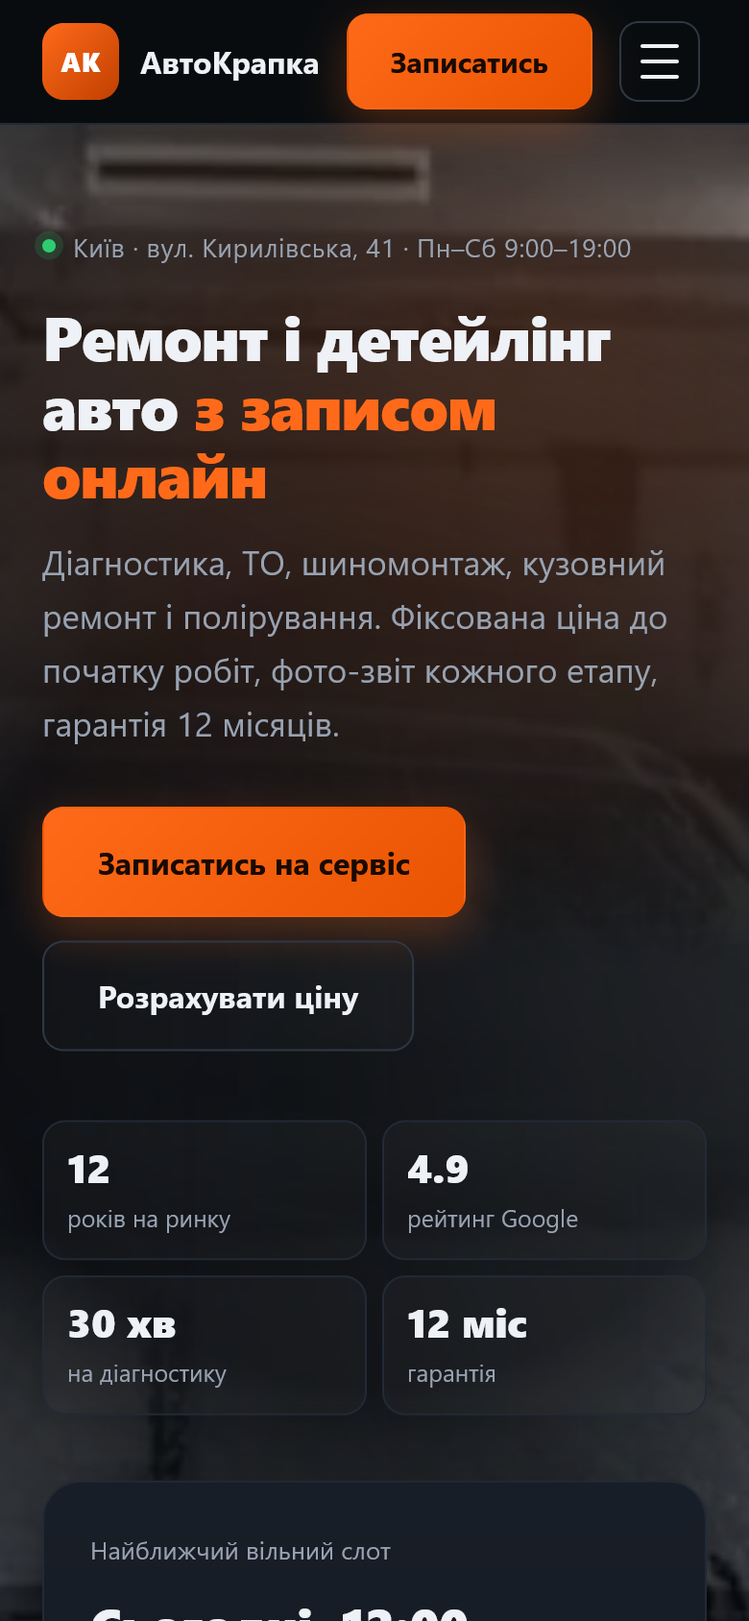
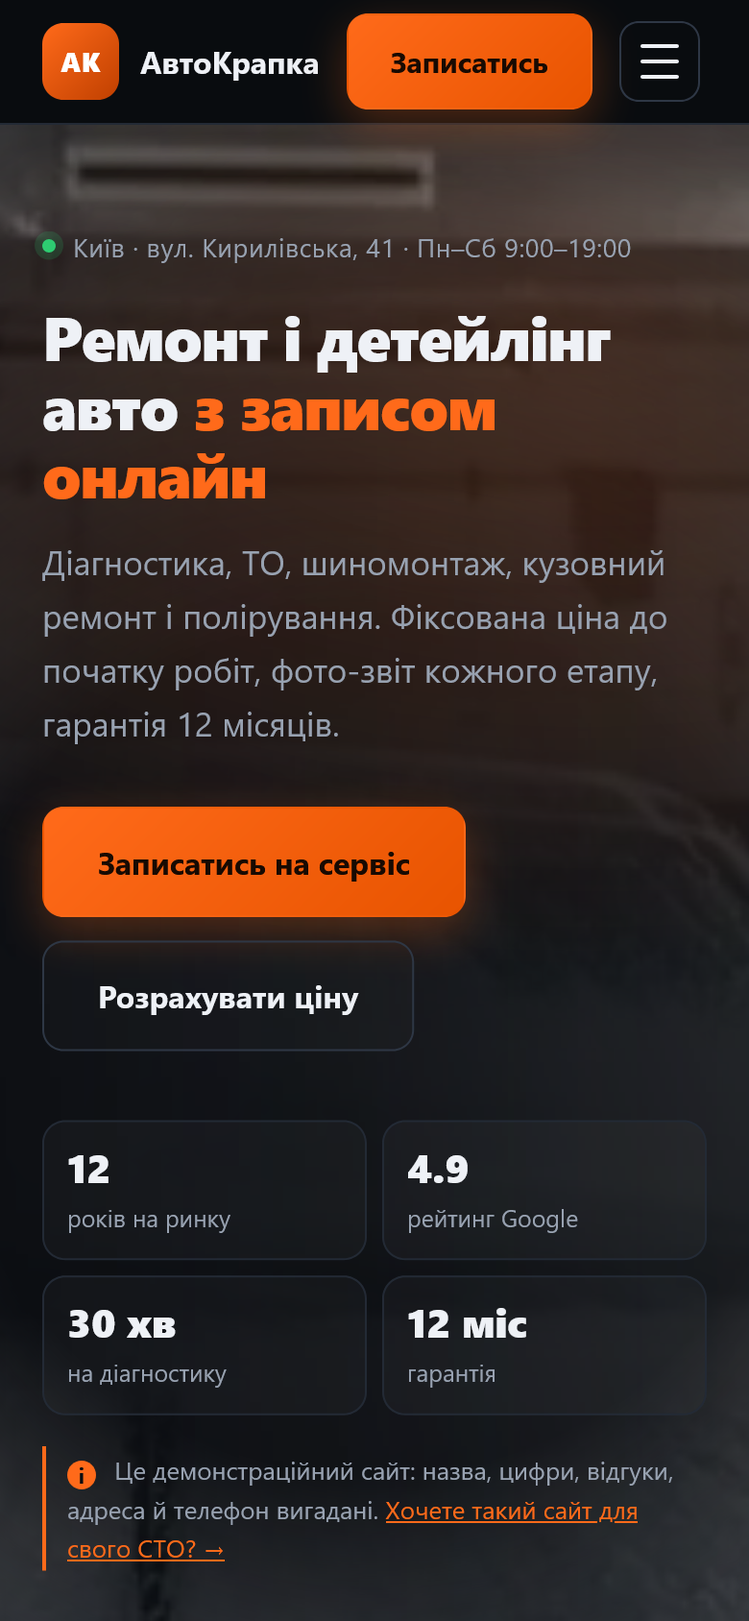
Правки по внешнему аудиту: демо-пометки, оффер с главной, расходы после года, вопрос без записи
Аудит нашёл 5 узких мест. Все закрыты и проверены в живом браузере.

1. Вымышленные данные выглядели как настоящие:
   - строка «це демонстраційний сайт» на первом экране (видна без прокрутки, ПК и телефон)
   - пометка под заголовком отзывов и в контактах
   - пометка «демонстраційний кейс» над цифрами кейса СТО
2. Предложение для владельца СТО не было видно с главной:
   - ссылка «Хочете такий сайт для свого СТО? →» на /cases#offer прямо на первом экране
   - пункт «Сайт для вашого СТО» в мобильном меню
3. Неясные расходы после первого года — новый блок на /pricing:
   хостинг 45–220 грн/міс, домен .com.ua 560–740 грн/год, поддержка 1 200 грн/міс,
   сайт/код/база/домен принадлежат владельцу; строка «0 грн» уточнена
4. Политика конфіденційності: помечена как демонстрационный документ, убрана строка
   про ФОП, утверждение про HTTPS переписано честно
5. Форма записи: переключатель «Записатися / Тільки дізнатися ціну» — заявка уходит без слота
   (проверено: ответ «Питання прийнято»)

Дополнительно: у формы обратного звонка настоящий label + required + пояснение о согласии;
в предложении пункт про самостоятельное редактирование услуг и цен.

Проверки: test_flow 246 PASS / 0 FAIL (+16), W3C 20 страниц 0/0, axe 0, якоря 88/0,
кросс-браузерные 75/0, до/після 9/0. Документация: CHECKLIST §аудит, SELLING §19.

diff --git a/templates/index.html b/templates/index.html
@@ -66,6 +66,7 @@
     <a href="#prices">Ціни</a>
     <a href="#reviews">Відгуки</a>
     <a href="#contacts">Контакти</a>
+    <a href="/cases#offer">Сайт для вашого СТО</a>
     <a href="/cases">Портфоліо</a>
     <a class="btn btn-accent" href="#book">Записатись</a>
     <div class="menu-msgr">
@@ -94,6 +95,9 @@
         <a class="btn btn-accent btn-lg" href="#book">Записатись на сервіс</a>
         <a class="btn btn-ghost btn-lg" href="#calc">Розрахувати ціну</a>
       </div>
+      <p class="demo-note"><span class="demo-dot" aria-hidden="true">i</span>
+        Це демонстраційний сайт: назва, цифри, відгуки, адреса й телефон вигадані.
+        <a href="/cases#offer">Хочете такий сайт для свого СТО? →</a></p>
       <ul class="facts">
         <li><b>12</b><span>років на ринку</span></li>
         <li><b>4.9</b><span>рейтинг Google</span></li>
@@ -270,7 +274,9 @@
 <section id="reviews" class="section section-alt">
   <div class="wrap">
     <div class="sec-head"><div><h2>Відгуки клієнтів</h2>
-      <p class="sub">{{C_REVIEWS_NOTE}} · <a class="link-more" href="{{C_REVIEWS_URL}}" target="_blank" rel="noopener">Читати в Google →</a></p></div></div>
+      <p class="sub">{{C_REVIEWS_NOTE}} · <a class="link-more" href="{{C_REVIEWS_URL}}" target="_blank" rel="noopener">Читати в Google →</a></p>
+        <p class="demo-note demo-note--tight">Відгуки, імена й оцінки — демонстраційні: показують,
+          як виглядатиме цей блок на сайті СТО.</p></div></div>
     <div class="reviews">
       {{REVIEWS}}
     </div>
@@ -325,8 +331,14 @@
   <div class="wrap two-col book-wrap">
     <div>
       <h2>Записатись на сервіс</h2>
-      <p class="sub">Заповніть форму — передзвонимо протягом 15 хвилин у робочий час і підтвердимо час.</p>
+      <p class="sub">Заповніть форму — передзвонимо протягом 15 хвилин у робочий час і підтвердимо час.
+        Якщо час ще не обрали, позначте «Тільки дізнатися ціну» — відповімо без запису.</p>
       <form id="lead-form" class="lead-form" novalidate>
+        <fieldset class="lead-mode">
+          <legend class="sr-only">Що вам потрібно</legend>
+          <label><input type="radio" name="mode" value="book" checked><span>Записатися</span></label>
+          <label><input type="radio" name="mode" value="ask"><span>Тільки дізнатися ціну</span></label>
+        </fieldset>
         <div class="field-row">
           <label>Ім'я <span class="req">*</span>
             <input type="text" name="name" placeholder="Олександр" autocomplete="name" required>
@@ -392,11 +404,13 @@
           WhatsApp</a>
       </div>
       <form class="callback" id="callback-form">
-        <p class="callback-title">Передзвонити за 30 секунд</p>
+        <label class="callback-title" for="callback-phone">Передзвонити за 30 секунд</label>
         <div class="callback-row">
-          <input type="tel" name="phone" placeholder="+380 __ ___ __ __" inputmode="tel" autocomplete="tel" aria-label="Телефон для зворотного дзвінка">
+          <input type="tel" id="callback-phone" name="phone" placeholder="+380 __ ___ __ __" inputmode="tel" autocomplete="tel" required>
           <button class="btn btn-accent" type="submit">Передзвоніть</button>
         </div>
+          <p class="callback-hint">Номер потрібен лише для зворотного дзвінка. Надсилаючи його, ви погоджуєтесь
+            з <a href="/privacy" target="_blank" rel="noopener">політикою конфіденційності</a>.</p>
         <p class="callback-msg" id="callback-msg" role="status" aria-live="polite"></p>
       </form>
       <div class="map-card">
@@ -426,6 +440,7 @@
       </a>
       <p class="mini">{{C_ADDRESS}} · {{C_HOURS}}<br>
         <a href="tel:{{C_PHONE_RAW}}">{{C_PHONE}}</a></p>
+      <p class="demo-note demo-note--tight">Адреса, телефон і пошта — вигадані для демонстрації.</p>
     </div>
     <div>
       <b>Послуги</b>

diff --git a/templates/pricing.html b/templates/pricing.html
@@ -119,6 +119,30 @@
     </div>
   </section>
 
+  <section class="wrap split" aria-labelledby="after-year">
+    <h2 id="after-year">Що після першого року</h2>
+    <p class="sub">У пакет входять 12 місяців хостингу й підтримки. Далі ви платите лише за те,
+      що самі вирішите залишити — або не платите нічого.</p>
+    <div class="table-wrap" role="region" aria-label="Витрати після першого року" tabindex="0">
+      <table>
+        <thead>
+          <tr><th scope="col">Стаття</th><th scope="col">Перші 12 місяців</th><th scope="col">Далі</th></tr>
+        </thead>
+        <tbody>
+          <tr><th scope="row">Хостинг</th><td>у пакеті, 0 грн</td>
+              <td>45–220 грн на місяць залежно від хостингу; такому сайту достатньо найдешевшого тарифу</td></tr>
+          <tr><th scope="row">Домен .com.ua</th><td>якщо свого домену немає — реєструю на вас</td>
+              <td>560–740 грн на рік, сплачуєте реєстратору напряму (ціни NIC.UA, imena.ua, HVOSTING на 10.11.2026)</td></tr>
+          <tr><th scope="row">Підтримка</th><td>у пакеті</td><td>1 200 грн на місяць, за бажанням</td></tr>
+          <tr><th scope="row">Сайт, код і дані</th><td>належать вам</td>
+              <td>теж ваші: віддаю файли, базу й доступ до домену — навіть якщо ви не продовжуєте</td></tr>
+        </tbody>
+      </table>
+    </div>
+    <p class="mini">Якщо не продовжити хостинг, сайт перестане відкриватися — але файли, база й домен
+      залишаються у вас, і сайт можна підняти в будь-який момент. Нічого не «відключається» й не забирається.</p>
+  </section>
+
   <section class="wrap compare" aria-labelledby="vs-wp">
     <h2 id="vs-wp">Чому такий сайт легший за WordPress</h2>
     <div class="table-wrap" role="region" aria-label="Порівняння з WordPress" tabindex="0">
@@ -134,7 +158,7 @@
           <tr><th scope="row">Оновлення</th><td>щомісяця, іноді ламають верстку</td>
               <td>оновлюю я, у межах підтримки</td></tr>
           <tr><th scope="row">Щомісячні платежі</th><td>хостинг, тема, плагіни, безпека</td>
-              <td>0 грн перші 12 місяців, далі — за бажанням</td></tr>
+              <td>0 грн перші 12 місяців (хостинг і підтримка в пакеті), далі — див. «Що після першого року»</td></tr>
           <tr><th scope="row">Хто править контент</th><td>ви, у візуальному редакторі</td>
               <td>ви — робочі дані; сторінки й тексти — я</td></tr>
         </tbody>

diff --git a/static/style.css b/static/style.css
@@ -404,6 +404,25 @@ textarea{resize:vertical}
 
 /* ---------- форма записи ---------- */
 .lead-form{display:grid;gap:16px;max-width:640px}
+
+/* пометки «это демо» — рядом с вымышленными данными */
+.demo-note{margin:16px 0 0;font-size:13px;line-height:1.55;color:var(--muted);
+  border-left:2px solid var(--accent);padding:2px 0 2px 11px;max-width:64ch}
+.demo-note a{color:var(--accent);text-decoration:underline}
+.demo-note--tight{margin:9px 0 0;font-size:12.5px}
+.demo-dot{display:inline-flex;align-items:center;justify-content:center;width:15px;height:15px;
+  border-radius:50%;background:var(--accent);color:#0a0c10;font-size:11px;font-weight:700;
+  margin-right:6px;vertical-align:-2px}
+.case-note--demo{border-left:2px solid var(--accent);padding-left:11px;margin:0 0 14px;
+  font-size:13px;color:var(--muted)}
+
+/* переключатель формы: запись или просто вопрос */
+.lead-mode{display:flex;gap:10px;flex-wrap:wrap;border:0;padding:0;margin:0}
+.lead-mode label{display:flex;align-items:center;gap:8px;font-size:13.5px;color:var(--text);
+  border:1px solid var(--line);background:var(--card);border-radius:999px;padding:9px 15px;cursor:pointer}
+.lead-mode input{accent-color:var(--accent);margin:0}
+.lead-mode label:has(input:checked){border-color:var(--accent);background:var(--card-2);font-weight:600}
+#lead-form.mode-ask .slot-pick{display:none}
 .field-row{display:grid;grid-template-columns:1fr 1fr;gap:16px}
 .lead-form label{display:grid;gap:7px;font-size:13px;color:var(--muted)}
 .req{color:var(--accent)}
@@ -459,6 +478,8 @@ textarea{resize:vertical}
 /* ---------- юридическая страница ---------- */
 .legal{max-width:820px}
 .legal h1{font-size:clamp(26px,3.4vw,38px);margin-bottom:10px}
+.legal-demo{margin:18px 0 26px;padding:14px 16px;border:1px solid var(--line);border-left:3px solid var(--accent);
+  border-radius:var(--r);background:var(--card);font-size:13.5px;line-height:1.6;color:var(--muted);max-width:70ch}
 .legal-date{color:var(--muted);font-size:13.5px;margin-bottom:28px}
 .legal h2{font-size:20px;margin:30px 0 10px}
 .legal p,.legal li{color:#c3cad4;font-size:15.5px;line-height:1.7}
@@ -565,6 +586,8 @@ textarea{resize:vertical}
 
 /* ================= обратный звонок ================= */
 .callback{border:1px solid var(--line);background:var(--card-2);border-radius:var(--r);padding:14px}
+.callback-hint{margin:8px 0 0;font-size:12px;line-height:1.5;color:var(--muted)}
+.callback-hint a{color:var(--accent);text-decoration:underline}
 .callback-title{font-size:11.5px;text-transform:uppercase;letter-spacing:.09em;color:var(--muted);margin:0 0 10px}
 .callback-row{display:flex;gap:8px}
 .callback-row input{flex:1;min-width:0;padding:11px 12px;border:1px solid var(--line-2);border-radius:10px;

diff --git a/static/app.js b/static/app.js
@@ -370,6 +370,24 @@
     const phone = form.querySelector('input[name="phone"]');
     phone?.addEventListener("input", () => maskPhone(phone));
 
+    // режим заявки: «записатися» требует слот, «тільки дізнатися ціну» — нет
+    const modeRadios = form.querySelectorAll('input[name="mode"]');
+    const askMode = () => form.querySelector('input[name="mode"]:checked')?.value === "ask";
+    function applyMode() {
+      const ask = askMode();
+      form.classList.toggle("mode-ask", ask);
+      const btn = form.querySelector('button[type="submit"]');
+      if (btn) btn.textContent = ask ? "Надіслати питання" : "Записатись";
+      if (ask) {
+        ["#slot-date", "#slot-time"].forEach(sel => {
+          const el = form.querySelector(sel);
+          if (el) el.value = "";
+        });
+      }
+    }
+    modeRadios.forEach(r => r.addEventListener("change", applyMode));
+    applyMode();
+
     form.addEventListener("submit", async (e) => {
       e.preventDefault();
       msg.className = "form-msg";
@@ -397,7 +415,7 @@
         }
       }
 
-      if (slotUI && (!slotUI.date || !slotUI.time)) {
+      if (!askMode() && slotUI && (!slotUI.date || !slotUI.time)) {
         msg.textContent = "Оберіть день і час — інакше не забронюємо місце";
         msg.classList.add("err");
         document.getElementById("days")?.scrollIntoView({ block: "center" });
@@ -415,10 +433,13 @@
         const res = await fetch("/api/leads", { method: "POST", body: new URLSearchParams(payload) });
         const data = await res.json();
         if (data.ok) {
-          msg.textContent = "Дякуємо! Заявку прийнято — передзвонимо протягом 15 хвилин.";
+          msg.textContent = askMode()
+            ? "Дякуємо! Питання прийнято — відповімо в робочий час."
+            : "Дякуємо! Заявку прийнято — передзвонимо протягом 15 хвилин.";
           window.hit && window.hit("lead_sent");
           msg.classList.add("ok");
           form.reset();
+          applyMode();
           if (estimateField) estimateField.value = "";
           const estLine1 = $("#est-line");
           if (estLine1) estLine1.hidden = true;

diff --git a/templates/privacy.html b/templates/privacy.html
@@ -28,7 +28,11 @@
 <main class="section">
   <div class="wrap legal">
     <h1>Політика конфіденційності</h1>
-    <p class="legal-date">Редакція від 1 листопада 2026 року · ФОП «АвтоКрапка» · Київ, вул. Кирилівська, 41</p>
+    <p class="legal-date">Редакція від 1 листопада 2026 року · демонстраційний документ</p>
+
+    <p class="legal-demo">Це демонстраційна сторінка для портфоліо. Назва «АвтоКрапка», реквізити,
+      адреса, телефон і пошта вигадані, реального бізнесу за ними немає. Текст показує, який документ
+      отримує клієнт разом із робочим сайтом.</p>
 
     <h2>1. Які дані ми збираємо</h2>
     <p>Сайт збирає лише те, що ви вводите самі у формі запису:</p>
@@ -54,7 +58,8 @@
     <h2>4. Де зберігаються дані</h2>
     <p>Заявки зберігаються в захищеній базі даних на сервері сервісу. Доступ до адмін-панелі
       захищений паролем; пароль зберігається у вигляді необоротного хешу, а не відкритим текстом.
-      З'єднання з сайтом захищене протоколом HTTPS.</p>
+      На робочому сайті з'єднання захищене протоколом HTTPS; ця демонстрація відкривається локально,
+      тому HTTPS на ній немає.</p>
 
     <h2>5. Файли cookie</h2>
     <p>Сайт використовує лише технічні файли cookie для входу в адмін-панель. Аналітичні та

diff --git a/templates/cases.html b/templates/cases.html
@@ -107,6 +107,9 @@
       </div>
     </div>
 
+    <p class="case-note case-note--demo">Демонстраційний кейс: цифри показують, як виглядатиме
+      звіт по роботі сервісу, а не результати реального клієнта.</p>
+
     <div class="metrics">
       <div><b>2 сек</b><span>від заявки до повідомлення в Telegram</span></div>
       <div><b>0</b><span>сторонніх трекерів і підписок</span></div>
@@ -176,6 +179,7 @@
       <li>Сайт під ваш бренд: послуги, ціни, фото робіт</li>
       <li>Онлайн-запис по вільних годинах</li>
       <li>Панель: заявки, статуси, експорт CSV</li>
+        <li>Послуги, ціни й тексти правите самі в панелі — без програміста</li>
       <li>Telegram-бот з нагадуваннями клієнтам</li>
       <li>Картка Google Business — налаштую й підключу</li>
       <li>12 місяців підтримки у вартості</li>

diff --git a/test_flow.py b/test_flow.py
@@ -807,7 +807,9 @@ check("тарифи: перелічено, що клієнт змінює сам
 check("тарифи: перелічено, що робить виконавець",
       "Я — у межах підтримки" in pr and "Нові сторінки й тексти" in pr)
 check("тарифи: є порівняння з WordPress", 'id="vs-wp"' in pr and "Плагіни" in pr)
-check("тарифи: у порівнянні п'ять рядків", pr.count('<th scope="row">') == 5, pr.count('<th scope="row">'))
+_cmp = pr[pr.find('id="vs-wp"'):pr.find("patchstack-цитата" if "patchstack-цитата" in pr else "</section>", pr.find('id="vs-wp"'))]
+check("тарифи: у порівнянні з WordPress п'ять рядків",
+      _cmp.count('<th scope="row">') == 5, _cmp.count('<th scope="row">'))
 check("тарифи: джерело даних про уразливості вказано",
       "Patchstack" in pr and "Wordfence" in pr)
 _home = get("/")[1]
@@ -826,6 +828,44 @@ check("вхід в адмінку: Cache-Control no-store", "no-store" in (_h.ge
 _, _hh2, _h2 = get("/api/slots/days")
 check("публічне API слотів: без no-store",
       "no-store" not in (_h2.get("Cache-Control") or ""))
+
+# ---------- правки по аудиту 10.11.2026: демо-пометки, оффер с главной, вопрос без записи ----------
+_, _h, _ = get("/")
+check("главная: пометка «це демонстраційний сайт» на первом экране",
+      'class="demo-note"' in _h and "демонстраційний сайт" in _h)
+check("главная: из пометки ссылка на предложение /cases#offer", 'href="/cases#offer"' in _h)
+check("главная: ссылка на предложение есть и в мобильном меню", _h.count("/cases#offer") >= 2,
+      _h.count("/cases#offer"))
+check("главная: пометка у блока отзывов", "Відгуки, імена й оцінки — демонстраційні" in _h)
+check("главная: пометка у контактов", "Адреса, телефон і пошта — вигадані" in _h)
+check("форма: переключатель «записатися / тільки дізнатися ціну»",
+      'name="mode"' in _h and 'value="ask"' in _h and 'value="book" checked' in _h)
+_, _post_body, _ = post("/api/leads", {"name": "Олег Тестовий", "phone": "+380 67 000 11 22",
+                                       "comment": "Питання без запису", "consent": "1", "mode": "ask"})
+try:
+    _pq = json.loads(_post_body)
+except Exception:
+    _pq = {}
+check("форма: заявка без слота принимается (режим «питання»)", _pq.get("ok") is True, _post_body[:80])
+
+check("форма обратного звонка: заголовок связан с полем (label for)",
+      'for="callback-phone"' in _h and 'id="callback-phone"' in _h and 'required' in _h)
+check("форма обратного звонка: сказано, зачем номер и что это согласие",
+      "callback-hint" in _h and "погоджуєтесь" in _h)
+
+_, _ch, _ = get("/cases")
+check("кейсы: пометка «демонстраційний кейс» у метрик", "case-note--demo" in _ch)
+check("кейсы: в предложении сказано, что услуги и цены владелец правит сам",
+      "Послуги, ціни й тексти правите самі в панелі" in _ch)
+_, _ph, _ = get("/pricing")
+check("тарифы: блок «Що після першого року»", "Що після першого року" in _ph and 'id="after-year"' in _ph)
+check("тарифы: расписаны домен и хостинг после первого года",
+      "Домен .com.ua" in _ph and "Хостинг" in _ph and "560–740" in _ph)
+check("тарифы: строка про 0 грн уточнена", "хостинг і підтримка в пакеті" in _ph)
+_, _vh, _ = get("/privacy")
+check("политика: помечена как демонстрационный документ", "legal-demo" in _vh)
+check("политика: нет утверждения об HTTPS без оговорки",
+      "З'єднання з сайтом захищене протоколом HTTPS." not in _vh)
 
 # ---------- уборка: демо-база остаётся чистой после прогона ----------
 # удаляем все заявки тестового клиента: если прошлый прогон упал, за ним остались «хвосты»

diff --git a/CHECKLIST.md b/CHECKLIST.md
@@ -577,3 +577,47 @@ powershell -NoProfile -Command "Get-CimInstance Win32_Process -Filter \"Name='py
 axe 0 нарушений, якоря 88/0, кросс-браузерные 75/0, ползунок «до/після» 9/0.
 Старое имя не встречается ни на одной странице.
 
+## Правки по внешнему аудиту (10.11.2026)
+
+Внешний аудит (без браузера, только по исходникам) нашёл 5 узких мест. Все закрыты, каждое
+проверено в живом браузере и тестами.
+
+**1. Вымышленные данные выглядели как настоящие.** Пометка была только в подвале, а рейтинг
+«4.9 · 213 відгуків», цифры, адрес и телефон — на видных местах. Теперь:
+- на первом экране, сразу под кнопками, стоит строка «Це демонстраційний сайт: назва, цифри,
+  відгуки, адреса й телефон вигадані» — проверил, она видна без прокрутки и на ПК, и на телефоне;
+- отдельная пометка под заголовком блока отзывов;
+- пометка в контактах: «Адреса, телефон і пошта — вигадані для демонстрації»;
+- в кейсе СТО над цифрами («2 сек», «200+ автотестів») — «Демонстраційний кейс: цифри показують,
+  як виглядатиме звіт, а не результати реального клієнта».
+
+**2. Предложение для владельца СТО не было видно с главной.** Теперь в той же строке на первом
+экране есть ссылка «Хочете такий сайт для свого СТО? →» на /cases#offer, и отдельный пункт
+«Сайт для вашого СТО» в мобильном меню. Кнопки записи клиента и ссылка на продажу не смешиваются.
+
+**3. Не было ясно, что платить после первого года.** На странице тарифов появился блок
+«Що після першого року»: хостинг (45–220 грн/міс после пакета), домен .com.ua (560–740 грн/год,
+цены NIC.UA, imena.ua, HVOSTING на 10.11.2026), поддержка (1 200 грн/міс, по желанию) и главное —
+сайт, код, база и домен принадлежат владельцу, даже если он не продлевает. Строка «0 грн перші
+12 місяців» уточнена: раньше читалась как «вообще ноль расходов».
+
+**4. Политика конфіденційності звучала как документ реального бизнеса.** Добавлена пометка
+«демонстраційний документ» с объяснением, убрана строка про ФОП с адресом, а утверждение
+«з'єднання захищене HTTPS» переписано честно: на рабочем сайте HTTPS, у локального демо его нет.
+
+**5. Вход в заявку требовал выбрать день и время.** В форме записи появился переключатель
+«Записатися / Тільки дізнатися ціну». В режиме вопроса блок слотов скрывается, кнопка меняется
+на «Надіслати питання», заявка уходит без даты (сервер это поддерживал и раньше, мешал только
+скрипт формы). Проверено живьём: заявка без слота принимается, ответ «Питання прийнято».
+
+Дополнительно: у формы обратного звонка заголовок стал настоящим `label`, связанным с полем
+(`for`/`id`), поле помечено обязательным, добавлена строка, зачем нужен номер и что это согласие
+на обработку. В предложении добавлен пункт «Послуги, ціни й тексти правите самі в панелі».
+
+Проверки после правок: `test_flow.py` **246 пройдено / 0 провалов** (+16 новых), W3C **20 страниц
+0/0**, axe **0 нарушений**, якоря **88/0**, кросс-браузерные **75/0**, «до/після» **9/0**.
+
+Что из аудита не подтвердилось: утверждение, что мобильная версия не проверена, — проверена
+на живом браузере; расхождение «политика обещает HTTPS, а адрес HTTP» было реальным и исправлено;
+запросы в server.log действительно старые — все проверки после правок прогнаны заново.
+

diff --git a/SELLING.md b/SELLING.md
@@ -477,3 +477,22 @@
 
 Повний чек-ліст із 8 пунктів показано на сайті в портфоліо (блок «Кожен сайт перевіряю за 8 пунктами»).
 
+## 19. Что говорить клиенту про демо (после правок 10.11.2026)
+
+Демо-сайт выглядит как сайт живого СТО, поэтому на нём теперь прямо стоят пометки о том, что
+название, цифры, отзывы, адрес и телефон вымышленные. Это защищает обе стороны: клиент не думает,
+что ему показывают чужие достижения, а вы не выглядите как человек, который приписывает себе
+результаты.
+
+Что говорить при первом контакте (текстом, без звонков):
+
+- «Это демонстрационный сайт. Все цифры и отзывы на нём — пример того, как будет выглядеть ваш
+  сайт, когда вы дадите свои данные.»
+- «Смотрите на структуру: как выглядит запись, калькулятор, прайс, карточка в Google.»
+- «После первого года вы платите только за хостинг (45–220 грн в месяц) и домен (560–740 грн в год),
+  поддержка — по желанию. Сайт, код и база остаются вашими, даже если вы решите не продлевать.»
+- «Клиент может оставить заявку даже без выбора времени — есть режим "просто узнать цену".»
+
+Чего не делать: не обещать конкретные цифры заявок («будет +30% записей») и не показывать демо
+как «сайт клиента N». Аудит верно указал: цифры без пометки читаются как подтверждённый результат.
+
